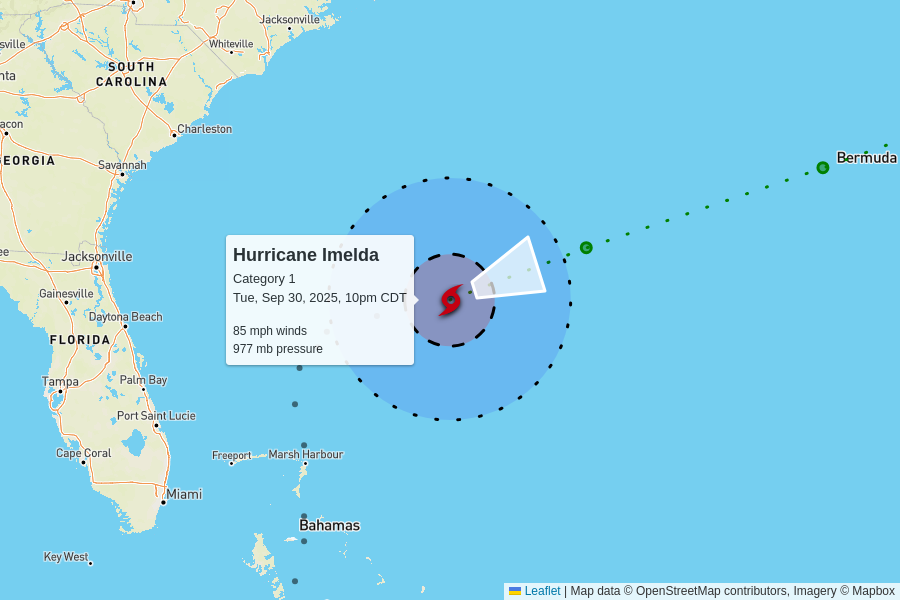
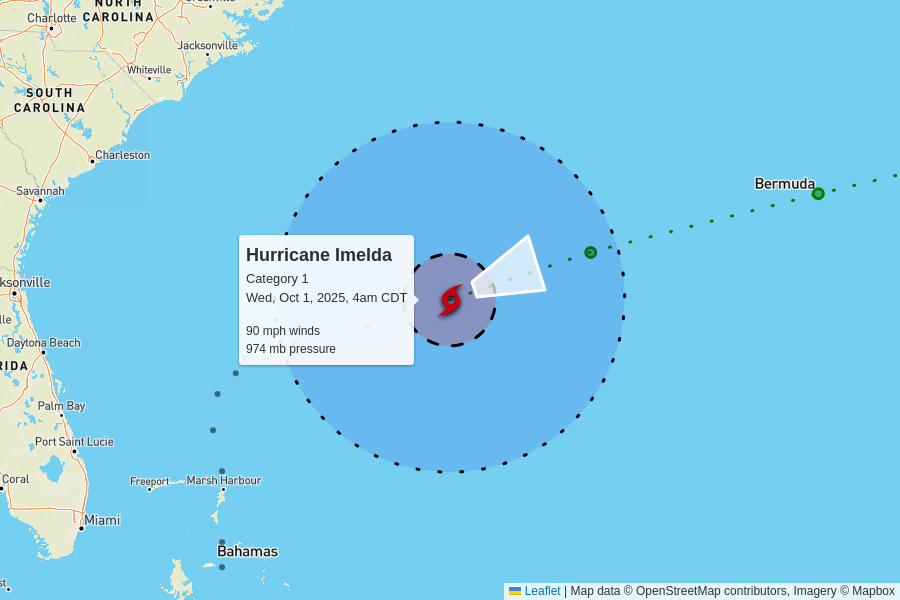
automatic update

diff --git a/docs/index.html b/docs/index.html
@@ -104,7 +104,7 @@
         <td colspan="6" class="storm category-1" >
           <h2>
             Hurricane Humberto - Category 1
-            <p class="updated">last updated <span data-time>2025-10-01T03:00:00.000Z</span></p>
+            <p class="updated">last updated <span data-time>2025-10-01T09:00:00.000Z</span></p>
           </h2>
         </td>
       </tr>
@@ -122,9 +122,9 @@
         <td>80 mph<br>0 mph since last update</td>
         <td>979 mb<br>0 mb since last update</td>
         <td>
-          10 mph to the east-northeast
+          14 mph to the northeast
           <br/>
-          <span style="display: inline-block; font-size: 1.5em; transform: rotate(65deg);">↑</span>
+          <span style="display: inline-block; font-size: 1.5em; transform: rotate(55deg);">↑</span>
         </td>
         <td><a href="https://raw.githubusercontent.com/mgwalker/atlantic-hurricanes/main/data/csv/AL082025.csv">AL082025.csv</a></td>
         <td><a href="https://www.nhc.noaa.gov/archive/2025/HUMBERTO.shtml?">NHC advisories</a></td>
@@ -148,7 +148,7 @@
         <td colspan="6" class="storm category-1" >
           <h2>
             Hurricane Imelda - Category 1
-            <p class="updated">last updated <span data-time>2025-10-01T03:00:00.000Z</span></p>
+            <p class="updated">last updated <span data-time>2025-10-01T09:00:00.000Z</span></p>
           </h2>
         </td>
       </tr>
@@ -163,10 +163,10 @@
       </tr>
       <tr>
         <td class="spacer"></td>
-        <td>85 mph<br>0 mph since last update</td>
-        <td>977 mb<br>-1 mb since last update</td>
+        <td>90 mph<br>+5 mph since last update</td>
+        <td>974 mb<br>-3 mb since last update</td>
         <td>
-          15 mph to the east-northeast
+          20 mph to the east-northeast
           <br/>
           <span style="display: inline-block; font-size: 1.5em; transform: rotate(70deg);">↑</span>
         </td>
